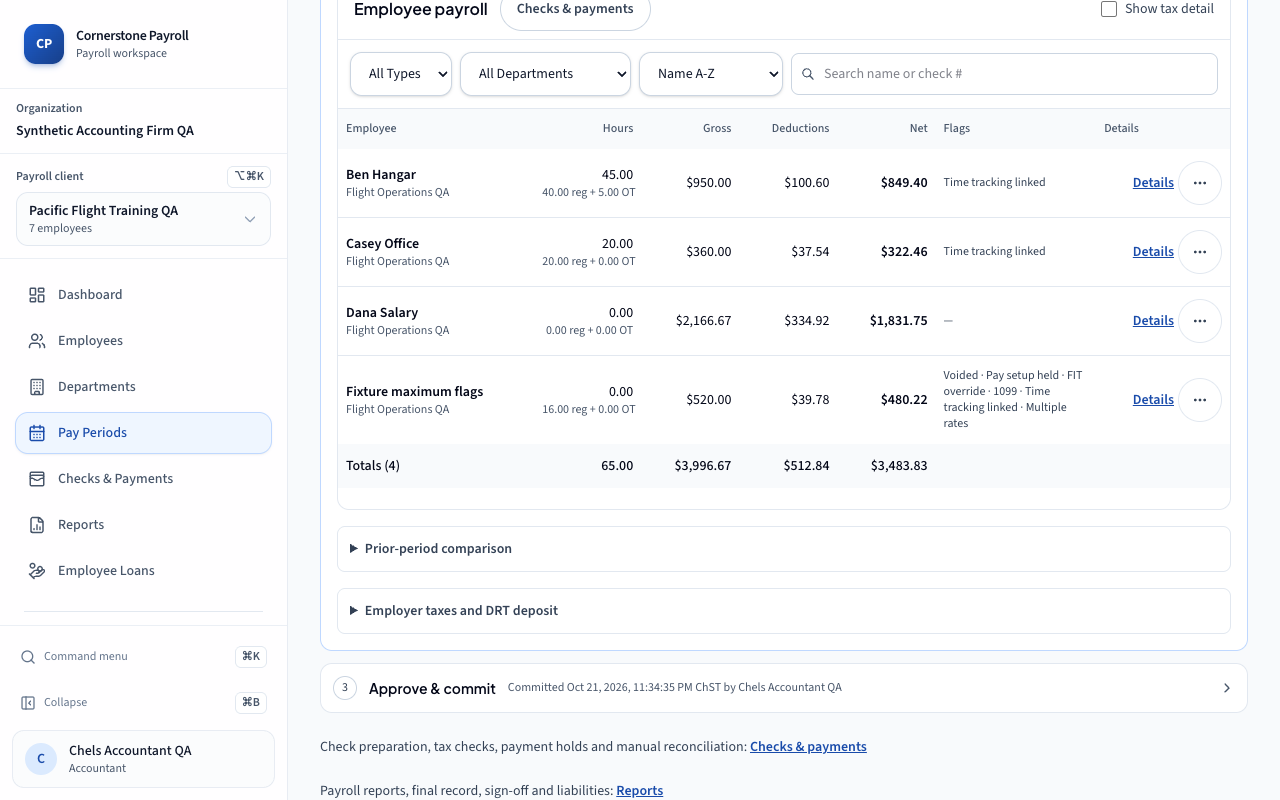
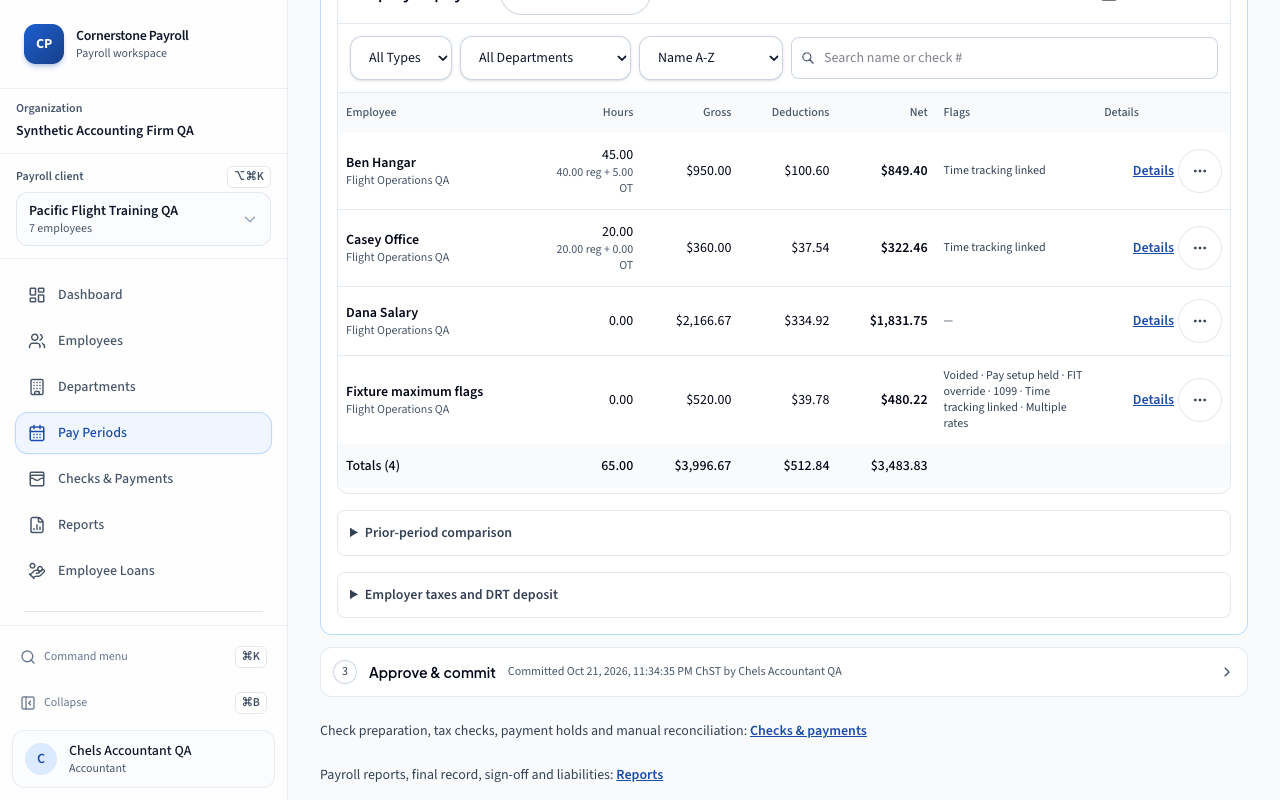
docs(payroll): verify consistent hours on desktop and phone

diff --git a/docs/qa/pay-run-redesign-pr-c/GATES.md b/docs/qa/pay-run-redesign-pr-c/GATES.md
@@ -1,25 +1,13 @@
 # Gates
 
-Application source 36b291d1, including staging-v2 ce12d1da. Final evidence-only commits leave the web tree unchanged: `addd1426db57cf2c29ff16349cac5414ea62d6ad`.
+Final hours-only application source: `72e5cc30`, including staging-v2 `ce12d1da`. Evidence-only changes leave web tree `502d2b4b593d9231ff497e4cc44f9d37f5b71e3c` unchanged.
 
-| Gate | Result |
+| Fresh gate | Result |
 | --- | --- |
-| npm ci | Passed |
-| npm audit --audit-level=moderate | Passed; 0 vulnerabilities |
-| npm run gate | TypeScript, zero-warning lint, 131 files / 1,242 tests, production build passed |
-| test:e2e:public | 131 passed; 0 failed, skipped or flaky |
+| npm run gate | TypeScript, zero-warning lint, 131 files / 1,248 tests, production build passed |
 | test:e2e:release | 45 passed; 0 failed, skipped or flaky |
-| test:e2e:refresh | 10 passed; 0 failed, skipped or flaky |
-| test:e2e:pay-items | 24 passed; 0 failed, skipped or flaky |
-| Axe | 32 scans; zero #377 required-family violations; existing advisories classified in README |
-| Impeccable 4.6.0 | No findings |
-| Viewport acceptance | 18 passed |
-| Read-only Reports | 12 passed |
-| Interaction/navigation | 4 passed |
-| Saved lifecycle + dialog/motion | 12 passed receipts |
+| Hours presentation | 6 headless checks at 1280×800 / 390×844; no horizontal overflow |
 
-Backend specs were not rerun under the lead’s explicit C web-only gate. API tree equals ce12d1da; no API changes belong to C. All four browser lanes used fresh owned database/server launches after integrating #385. The public lane was refreshed after the final Details accessible-name correction; all gates cover the final application source. CI on the pushed head remains a separate merge gate.
+The final lead request narrowed this follow-up to the full web gate and release lane. The accepted previous round passed npm ci, npm audit (0 vulnerabilities), public 131, release 45, refresh 10 and pay-items 24, all with zero failures, skips or flaky results. Those prior-round public/refresh/pay-items receipts are historical evidence, not claimed as rerun on the final hours change. Its 32 axe scans, 18 viewport checks, 12 read-only Reports checks, 12 saved-outcome/dialog receipts and Impeccable 4.6.0 scan remain in the review-round-1 report.
 
-Raw stdout, JSON browser reports and earlier red attempts remain at the local evidence root documented in METHODS.md. CodeRabbit returned four valid findings, addressed in review round 1 with thread replies after push. Lead re-review and merge remain pending.
-
-Review-round gate evidence is in pr-c/review-1/: verified-gate/gate-receipts.jsonl records the successful full gate; e2e-*.log contains the four green browser JSON reports. Earlier failed attempts are preserved and explained in REVIEW-1.md. No test timeouts were increased. The final public run started after all source/test fixes.
+[Last hours fix and fresh stress captures](REVIEW-2.md) · [Accepted eight review fixes](REVIEW-1.md). Raw final-round evidence is in `pr-c/review-2/` under the local evidence root in METHODS.md. Gates were run on 72e5cc30; later commits contain evidence only. API tree equals ce12d1da, with no backend changes, migrations or dependency changes. Backend specs were not rerun under the lead’s web-only C gate. CI on the pushed head remains the lead’s merge gate.

diff --git a/docs/qa/pay-run-redesign-pr-c/REVIEW-2.md b/docs/qa/pay-run-redesign-pr-c/REVIEW-2.md
@@ -1,0 +1,15 @@
+# Hours breakdown follow-up
+
+Application commit `72e5cc30` fixes the last lead finding after approval of the previous eight fixes. Desktop and phone use the same hours readout. Salary and zero-hour contractor rows omit the reg/OT subline. Other rows show it only when the two formatted components sum to the displayed total. Multi-rate or other mismatched raw hours therefore cannot contradict the total. Footer totals still use `registerTotals`; gross, deductions and net remain saved values.
+
+Six regression cases cover matching hourly hours, mismatched hours, salary with and without displayed hours, and flat-fee contractors with recorded or zero raw hours. Each asserts desktop and phone presentation and an unchanged footer. The reproduction failed all six new cases before the fix (three existing tests passed); the targeted file now passes all nine. Raw red/green logs are retained here.
+
+The lead requested the full web gate and release lane for this small follow-up. Public, refresh and pay-items receipts from the accepted previous round remain historical evidence; they are not represented as rerun on this change. No API changes or backend specs belong to this round.
+
+The full web gate passed TypeScript, zero-warning lint, **131 files / 1,248 tests**, and the production build on application commit `72e5cc30`. The release lane passed **45 tests**, with zero failures, skips or flaky results. Six headless browser checks passed at 1280×800 and 390×844: flat-fee shows 0.00 with no contradictory split, salary shows its displayed hours without the split, and hourly shows 18.00 with 16.00 reg + 2.00 OT. All checks asserted no page or main-content horizontal overflow. The synthetic response overrides changed presentation fields only; no saved payroll amounts were changed.
+
+[Desktop worst flags](worst-flags-1280.png) · [Phone worst flags](worst-flags-390.png) · [Six browser receipts](hours-qa.json). Previous contact sheets and measurements remain the accepted review-round-1 evidence; these two stress captures are refreshed for this hours-only follow-up.
+
+Raw logs, red/green reproduction, complete web gate, release JSON report and cleanup receipts: `output/payroll-aire-review-2026-10-24/impl/payroll-redesign/pr-c/review-2/`.
+
+The first browser-script attempt encountered an extra blank line in rendered innerText; the assertion now normalizes repeated line breaks. That failed attempt is retained as ui-first-whitespace-assertion.log. The final six checks passed. All owned servers, Chromium processes and three private databases were cleaned; the nine assigned ports are free and lifecycle reports no active owned resources. Borrowed/protected resources were unchanged.

diff --git a/docs/qa/pay-run-redesign-pr-c/README.md b/docs/qa/pay-run-redesign-pr-c/README.md
@@ -1,6 +1,6 @@
 # Pay-run redesign C
 
-Owner: `payroll-redesign`. Application source: `36b291d1` (UI logic/layout in `5a6e9754`, count labels in `04fd3b86`); integrates staging-v2 `ce12d1da` (#385). Lead reviews and merges. PR A #383 and PR B #384 are already merged.
+Owner: `payroll-redesign`. Application source: `72e5cc30` (prior UI logic/layout in `5a6e9754`, count labels in `04fd3b86`); integrates staging-v2 `ce12d1da` (#385). Lead reviews and merges. PR A #383 and PR B #384 are already merged.
 
 Payroll now follows Hours → Results → Approve & commit. Saved status chooses the current step; disclosure state only changes what the accountant inspects. Committed runs keep Results open for post-commit review. Hours and commitment collapse to a saved summary. Adjustment and late-hours runs state their selected-employee scope; parallel runs explain that commitment is unavailable.
 
@@ -25,3 +25,5 @@ The lead’s four findings and CodeRabbit’s four findings are addressed in [re
 Full logs, raw axe results, seed/capture/inventory scripts, six WebM recordings and earlier red attempts are in `/Users/leonshimizu/Desktop/ShimizuTechnology/output/payroll-aire-review-2026-10-24/impl/payroll-redesign/pr-c/`. Recordings are `recordings/steps-totals-{1280-no-preference,390-reduce}.webm` and `recordings/dialog-{1280,390}-{no-preference,reduce}.webm`. Changed-total opacity was recorded at 600 ms normal / 150 ms reduced; structural effects use 150 ms.
 
 Headless Chromium used 1280×800 and 390×844, copied local payroll/AIRE fixtures and synthetic records. These are agent-executed checks. No physical device, printer, live provider/payment/filing/email operation, successful connected import, late-hours financial execution or separate two-app certification is claimed. The financial saved-outcome check uses fresh manual runs; connected fixtures retain their actual source/provenance guards. No API implementation, migration, schema, dependency or deployment change belongs to C. Backend specs were not rerun under the lead's explicit web-only C gates.
+
+The final [hours follow-up](REVIEW-2.md) hides misleading regular/OT splits on desktop and phone, with six regressions and six browser checks. The fresh web gate passes 1,248 tests; the release lane passes 45. Prior-round broad acceptance remains recorded separately.
